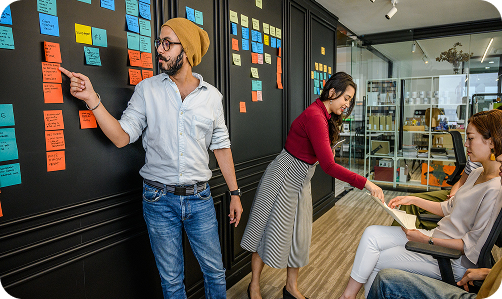
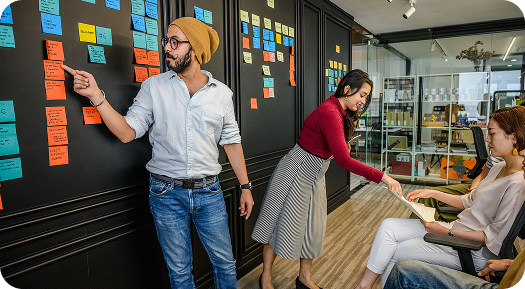
feat: implementa catalogo de cursos (aguardando rodape) e ajusta links da navbar

diff --git a/pages/cursos.html b/pages/cursos.html
@@ -1,0 +1,168 @@
+<!DOCTYPE html>
+<html lang="pt-BR">
+<head>
+    <meta charset="UTF-8">
+    <meta name="viewport" content="width=device-width, initial-scale=1.0">
+    <title>Nossos Cursos | Prisma Cursos</title>
+    <link rel="preconnect" href="https://fonts.googleapis.com">
+    <link rel="preconnect" href="https://fonts.gstatic.com" crossorigin>
+    <link href="https://fonts.googleapis.com/css2?family=Montserrat:wght@400;500;600;700&display=swap" rel="stylesheet">    
+    <link rel="stylesheet" href="../css/variables.css">
+    <link rel="stylesheet" href="../css/global.css">
+    <link rel="stylesheet" href="../css/components/typography.css">
+    <link rel="stylesheet" href="../css/components/buttons.css">
+    <link rel="stylesheet" href="../css/components/cards.css">
+    <link rel="stylesheet" href="../css/curso-card.css">
+    <link rel="stylesheet" href="../css/catalogo-cursos.css">
+    <link rel="stylesheet" href="../css/navbar.css">
+    <link rel="stylesheet" href="../css/hero.css">
+</head>
+<header class="site-header">
+    <nav class="navbar" aria-label="Navegação principal">
+        <div class="navbar__symbol">
+            <img src="../assets/images/logo-prisma-simbolo.svg" alt="" width="136" height="52">
+        </div>
+        <div class="navbar__menu">
+            <a href="../index.html#inicio" class="navbar__logo">
+                <img src="../assets/images/logo-prisma-texto.svg" alt="Prisma Cursos" width="120" height="44">
+            </a>
+            <ul class="navbar__links">
+                <li><a href="../index.html#inicio" class="navbar__link">Início</a></li>
+                <li><a href="sobre-nos.html" class="navbar__link">Sobre nós</a></li>
+                <li><a href="../index.html#cursos" class="navbar__link">Cursos</a></li>
+                <li><a href="../index.html#depoimentos" class="navbar__link">Depoimentos</a></li>
+                <li><a href="../index.html#contato" class="navbar__link">Contato</a></li>
+            </ul>
+        </div>
+    </nav>        
+</header>
+<body>
+    <main>
+        <section class="section">
+            <div class="container">
+                <div class="section-header" style="text-align: center; margin-bottom: 48px;">
+                    <h1 class="heading-hero" style="color: var(--color-primary);">Nossos cursos</h1>
+                </div>
+
+                <div class="categoria-bloco" style="margin-bottom: 48px;">
+                    <h2 class="section-title" style="margin-bottom: 24px;">Tecnologia</h2>
+                    <div class="catalogo__grid">
+                        
+                        <article id="web-full-stack" class="card card--prism-red card--interactive">
+                            <div class="card__media">
+                                <img src="../assets/images/curso-web.png" alt="Desenvolvimento Web Fullstack">
+                            </div>
+                            <div class="card__body">
+                                <h3 class="card__title">Desenvolvimento Web Fullstack</h3>
+                                <p class="card__description">Aprenda a criar sistemas do zero.</p>
+                            </div>
+                            <div class="card__footer">
+                                <div class="badge-group">
+                                    <span class="badge">Híbrido</span>
+                                </div>
+                                <a href="curso-web-fullstack.html" class="btn btn--secondary btn--sm">Veja os detalhes</a>
+                            </div>
+                        </article>
+
+                        <article id="analise-dados" class="card card--prism-orange card--interactive">
+                            <div class="card__media">
+                                <img src="../assets/images/curso-dados.png" alt="Análise de Dados">
+                            </div>
+                            <div class="card__body">
+                                <h3 class="card__title">Análise de Dados</h3>
+                                <p class="card__description">Transforme números em decisões estratégicas</p>
+                            </div>
+                            <div class="card__footer">
+                                <div class="badge-group">
+                                    <span class="badge">Híbrido</span>
+                                </div>
+                                <a href="curso-analise-dados.html" class="btn btn--secondary btn--sm">Veja os detalhes</a>
+                            </div>
+                        </article>
+
+                    </div>
+                </div>
+
+                <div class="categoria-bloco" style="margin-bottom: 48px;">
+                    <h2 class="section-title" style="margin-bottom: 24px;">Design</h2>
+                    <div class="catalogo__grid">
+                        
+                        <article id="ux-ui" class="card card--prism-yellow card--interactive">
+                            <div class="card__media">
+                                <img src="../assets/images/curso-ux.png" alt="UX/UI Design">
+                            </div>
+                            <div class="card__body">
+                                <h3 class="card__title">UX/UI Design</h3>
+                                <p class="card__description">Mergulhe na mente do utilizador</p>
+                            </div>
+                            <div class="card__footer">
+                                <div class="badge-group">
+                                    <span class="badge">Híbrido</span>
+                                </div>
+                                <a href="curso-ux-ui.html" class="btn btn--secondary btn--sm">Veja os detalhes</a>
+                            </div>
+                        </article>
+
+                        <article id="design-grafico" class="card card--prism-blue card--interactive">
+                            <div class="card__media">
+                                <img src="../assets/images/curso-design.png" alt="Design Gráfico e Branding">
+                            </div>
+                            <div class="card__body">
+                                <h3 class="card__title">Design Gráfico e Branding</h3>
+                                <p class="card__description">Dê vidas a marcas de sucesso</p>
+                            </div>
+                            <div class="card__footer">
+                                <div class="badge-group">
+                                    <span class="badge">Híbrido</span>
+                                </div>
+                                <a href="curso-design-grafico.html" class="btn btn--secondary btn--sm">Veja os detalhes</a>
+                            </div>
+                        </article>
+
+                    </div>
+                </div>
+
+                <div class="categoria-bloco">
+                    <h2 class="section-title" style="margin-bottom: 24px;">Gestão</h2>
+                    <div class="catalogo__grid">
+                        
+                        <article id="gestao-agil" class="card card--prism-green card--interactive">
+                            <div class="card__media">
+                                <img src="../assets/images/curso-agil.png" alt="Gestão Ágil de Projetos">
+                            </div>
+                            <div class="card__body">
+                                <h3 class="card__title">Gestão Ágil de Projetos</h3>
+                                <p class="card__description">Torne-se o líder que o mercado procura.</p>
+                            </div>
+                            <div class="card__footer">
+                                <div class="badge-group">
+                                    <span class="badge">Híbrido</span>
+                                </div>
+                                <a href="curso-gestao-agil.html" class="btn btn--secondary btn--sm">Veja os detalhes</a>
+                            </div>
+                        </article>
+
+                        <article id="admin-negocios" class="card card--prism-purple card--interactive">
+                            <div class="card__media">
+                                <img src="../assets/images/curso-adm.png" alt="Administração e Negócios">
+                            </div>
+                            <div class="card__body">
+                                <h3 class="card__title">Administração e Negócios</h3>
+                                <p class="card__description">Uma base sólida para o mundo corporativo</p>
+                            </div>
+                            <div class="card__footer">
+                                <div class="badge-group">
+                                    <span class="badge">Híbrido</span>
+                                </div>
+                                <a href="curso-admin-negocios.html" class="btn btn--secondary btn--sm">Veja os detalhes</a>
+                            </div>
+                        </article>
+
+                    </div>
+                </div>
+
+            </div>
+        </section>
+    </main>
+</body>
+</html>

diff --git a/index.html b/index.html
@@ -31,7 +31,7 @@
                 <ul class="navbar__links">
                     <li><a href="#inicio" class="navbar__link">Início</a></li>
                     <li><a href="pages/sobre-nos.html" class="navbar__link">Sobre nós</a></li>
-                    <li><a href="#cursos" class="navbar__link">Cursos</a></li>
+                    <li><a href="pages/cursos.html" class="navbar__link">Cursos</a></li>
                     <li><a href="#depoimentos" class="navbar__link">Depoimentos</a></li>
                     <li><a href="#contato" class="navbar__link">Contato</a></li>
                 </ul>
@@ -238,7 +238,7 @@
                     </article>
                 </div>
                 <div class="cursos-destaque__acoes">
-                    <a href="cursos.html" class="btn btn--primary">Conheça todos os cursos</a>
+                    <a href="pages/cursos.html" class="btn btn--primary">Conheça todos os cursos</a>
                 </div>
             </div>
         </section>

diff --git a/css/catalogo-cursos.css b/css/catalogo-cursos.css
@@ -1,0 +1,38 @@
+main {
+    padding-top: var(--navbar-height);
+}
+
+.catalogo__grid .card__title {
+    font-size: 24px; 
+    margin-bottom: 0px; 
+    line-height: 1; 
+    
+}
+.catalogo__grid .card__description {
+    margin-top: 0;
+    line-height: 1;
+}
+
+.catalogo__grid {
+    display: grid;
+    grid-template-columns: repeat(2, 1fr);
+    gap: 32px;
+}
+.catalogo__grid .card {
+    padding: 24px;
+    overflow: hidden;
+}
+
+.catalogo__grid .card__body {
+    padding: 12px 0px 0px 12px; 
+}
+
+.catalogo__grid .card__footer {
+    padding: 0 12px 0px 12px;
+}
+
+@media (max-width: 1023px) {
+    .catalogo__grid {
+        grid-template-columns: 1fr;
+    }
+}

diff --git a/pages/sobre-nos.html b/pages/sobre-nos.html
@@ -29,7 +29,7 @@
                 <ul class="navbar__links">
                     <li><a href="../index.html#inicio" class="navbar__link">Início</a></li>
                     <li><a href="#sobre-nos-historia" class="navbar__link" aria-current="page">Sobre nós</a></li>
-                    <li><a href="../index.html#cursos" class="navbar__link">Cursos</a></li>
+                    <li><a href="cursos.html" class="navbar__link">Cursos</a></li>
                     <li><a href="../index.html#depoimentos" class="navbar__link">Depoimentos</a></li>
                     <li><a href="#contato" class="navbar__link">Contato</a></li>
                 </ul>

diff --git a/css/curso-card.css b/css/curso-card.css
@@ -10,11 +10,18 @@
     color: var(--color-white);
 }
 
+.card__media {
+    width: 100%;
+    padding: 0;
+    background-color: transparent;
+}
+
 .card__media img {
     width: 100%;
     height: 100%;
     object-fit: cover;
     display: block;
+    border-radius: 16px; 
 }
 
 .card__body {
